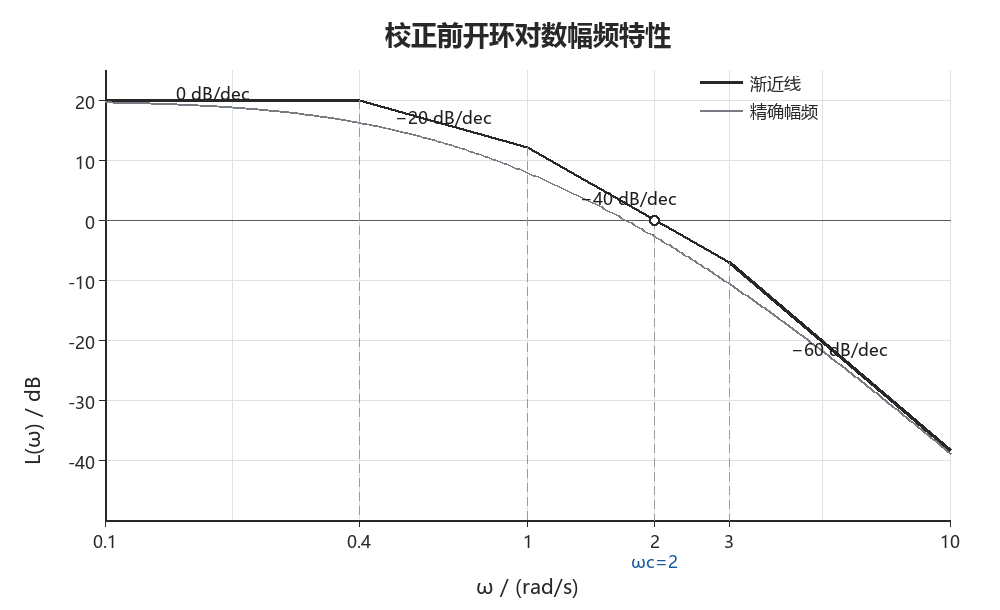
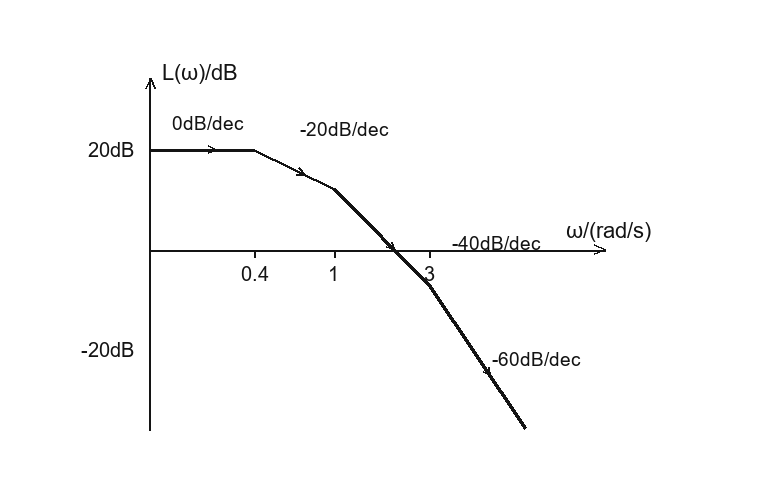
fix(2024-05): 校正前幅频图改为手绘风格并去掉竖向虚线

diff --git a/tools/plot_q202405.py b/tools/plot_q202405.py
@@ -1,5 +1,5 @@
 # -*- coding: utf-8 -*-
-"""Draw the pre-correction open-loop Bode magnitude of 2024 Q5 (G(s)=12/[(s+1)(s+3)(s+0.4)])."""
+"""Exam-style (hand-drawn look, no vertical guide lines) pre-correction Bode magnitude for 2024 Q5."""
 import math
 from pathlib import Path
 from PIL import Image, ImageDraw, ImageFont
@@ -7,13 +7,13 @@ from PIL import Image, ImageDraw, ImageFont
 ROOT = Path(__file__).resolve().parents[1]
 OUT = ROOT / "data-src/2024/img/solution-202405-bode-before.png"
 
-W, H = 1000, 610
-left, right, top, bottom = 105, 950, 70, 520
-logmin, logmax = -1.0, 1.0          # 0.1 .. 10 rad/s
-ymax, ymin = 25.0, -50.0            # dB
+W, H = 760, 480
+X0, Y0 = 150, 250
+SCALE, DEC, WMIN = 5.0, 200.0, 0.12
+F = "C:/Windows/Fonts/arial.ttf"
 
-def xmap(w): return left + (math.log10(w)-logmin)/(logmax-logmin)*(right-left)
-def ymap(db): return top + (ymax-db)/(ymax-ymin)*(bottom-top)
+def X(w):  return X0 + (math.log10(w)-math.log10(WMIN))*DEC
+def Y(db): return Y0 - SCALE*db
 
 def L_asym(w):
     db = 20.0
@@ -22,90 +22,47 @@ def L_asym(w):
     if w > 3.0: db -= 20*math.log10(w/3.0)
     return db
 
-def mag_db(w):
-    return 20*math.log10(12.0/(math.hypot(w,1)*math.hypot(w,3)*math.hypot(w,0.4)))
-
 img = Image.new("RGB", (W, H), "white")
 d = ImageDraw.Draw(img)
-FNT = "C:/Windows/Fonts/msyh.ttc"
 def font(sz, bold=False):
-    return ImageFont.truetype("C:/Windows/Fonts/msyhbd.ttc" if bold else FNT, sz)
+    try: return ImageFont.truetype("C:/Windows/Fonts/arialbd.ttf" if bold else F, sz)
+    except Exception: return ImageFont.truetype(F, sz)
+f22 = font(22); f20 = font(20); f19 = font(19)
+BLACK=(20,20,20)
 
-title_f = font(26, True)
-lab_f = font(20)
-tick_f = font(17)
-small_f = font(17)
+def arrow(x1,y1,x2,y2,w=2,ah=11):
+    d.line([(x1,y1),(x2,y2)], fill=BLACK, width=int(round(w)))
+    ang=math.atan2(y2-y1,x2-x1)
+    for s in (+1,-1):
+        xx=x2-ah*math.cos(ang-s*0.42); yy=y2-ah*math.sin(ang-s*0.42)
+        d.line([(x2,y2),(xx,yy)], fill=BLACK, width=int(round(w)))
 
-GRID=(220,226,232); AX=(40,40,40); DOT=(120,125,132); DASH=(150,155,162)
+arrow(X0, 430, X0, 78, 2.4)
+arrow(X0, Y0, 605, Y0, 2.4)
 
-# grid
-for w in [0.1,0.2,0.4,1,2,3,5,10]:
-    x=xmap(w); d.line([(x,top),(x,bottom)], fill=GRID, width=1)
-for db in [20,10,0,-10,-20,-30,-40]:
-    y=ymap(db); d.line([(left,y),(right,y)], fill=GRID, width=1)
-# axes
-d.line([(left,top),(left,bottom)], fill=AX, width=2)
-d.line([(left,bottom),(right,bottom)], fill=AX, width=2)
-# 0 dB line
-y0=ymap(0); d.line([(left,y0),(right,y0)], fill=(90,90,90), width=1)
+wpts=[WMIN,0.4,1,3,9]
+pts=[(X(w),Y(L_asym(w))) for w in wpts]
+for i in range(len(pts)-1):
+    d.line([pts[i],pts[i+1]], fill=BLACK, width=3)
 
-# ticks
-for w,lab in [(0.1,"0.1"),(0.4,"0.4"),(1,"1"),(2,"2"),(3,"3"),(10,"10")]:
-    x=xmap(w); d.line([(x,bottom),(x,bottom+6)], fill=AX, width=1)
-    tw=d.textlength(lab,font=tick_f); d.text((x-tw/2,bottom+10), lab, font=tick_f, fill=AX)
-for db in [20,10,0,-10,-20,-30,-40]:
-    y=ymap(db); d.line([(left-6,y),(left,y)], fill=AX, width=1)
-    lab=str(db); tw=d.textlength(lab,font=tick_f); d.text((left-10-tw,y-9), lab, font=tick_f, fill=AX)
+d.text((X0+12, 60), "L(ω)/dB", font=f22, fill=BLACK)
+d.text((566, Y0-32), "ω/(rad/s)", font=f22, fill=BLACK)
+d.text((X0-16, Y(20)-12), "20dB", font=f20, fill=BLACK, anchor="ra")
+d.text((X0-16, Y(-20)-12), "-20dB", font=f20, fill=BLACK, anchor="ra")
 
-# asymptote (piecewise linear in log w)
-pts=[(xmap(w),ymap(L_asym(w))) for w in [0.1,0.4,1,3,10]]
-d.line(pts, fill=AX, width=3)
-# exact curve dotted
-n=400; prev=None
-for i in range(n+1):
-    w=10**(logmin+(logmax-logmin)*i/n); p=(xmap(w),ymap(mag_db(w)))
-    if prev: d.line([prev,p], fill=DOT, width=2)
-    prev=p
+for w,lab in [(0.4,"0.4"),(1,"1"),(3,"3")]:
+    x=X(w); d.line([(x,Y0),(x,Y0+7)], fill=BLACK, width=2)
+    d.text((x, Y0+12), lab, font=f20, fill=BLACK, anchor="ma")
 
-# vertical dashed construction lines at corners and wc=2
-def vdash(w, ytop=None, ybot=None):
-    x=xmap(w); yt=ytop if ytop is not None else top; yb=ybot if ybot is not None else bottom
-    yy=yt
-    while yy<yb:
-        d.line([(x,yy),(x,min(yy+8,yb))], fill=DASH, width=1); yy+=14
-for w in [0.4,1,3]:
-    vdash(w, ymap(L_asym(w)), bottom)
-vdash(2, ymap(0), bottom)
-# mark wc=2 point
-xc=xmap(2); yc=ymap(0); r=5
-d.ellipse([xc-r,yc-r,xc+r,yc+r], fill="white", outline=AX, width=2)
-tw=d.textlength("ωc=2",font=tick_f); d.text((xc-tw/2,bottom+30), "ωc=2", font=tick_f, fill=(20,90,160))
+def slope_arrow(w1, w2, frac=0.5):
+    wa = w1*(w2/w1)**(frac-0.14); wb = w1*(w2/w1)**(frac+0.14)
+    arrow(X(wa), Y(L_asym(wa)), X(wb), Y(L_asym(wb)), 1.8, 9)
+slope_arrow(WMIN, 0.4); slope_arrow(0.4, 1); slope_arrow(1, 3); slope_arrow(3, 9)
 
-
-# slope labels
-def slopetext(w, db, text, dy=-18):
-    x=xmap(w); y=ymap(db)+dy; tw=d.textlength(text,font=small_f)
-    d.text((x-tw/2,y), text, font=small_f, fill=(30,30,30))
-slopetext(0.18, L_asym(0.18), "0 dB/dec")
-slopetext(math.sqrt(0.4*1), (L_asym(0.4)+L_asym(1))/2, "−20 dB/dec")
-slopetext(math.sqrt(1*3), (L_asym(1)+L_asym(3))/2, "−40 dB/dec")
-slopetext(math.sqrt(3*10), (L_asym(3)+L_asym(10))/2, "−60 dB/dec")
-
-# axis labels + title
-def centered(text, y, fnt, fill=AX):
-    tw=d.textlength(text,font=fnt); d.text(((left+right)/2-tw/2, y), text, font=fnt, fill=fill)
-centered("ω / (rad/s)", bottom+52, lab_f)
-tw=d.textlength("校正前开环对数幅频特性",font=title_f); d.text(((left+right)/2-tw/2, 16), "校正前开环对数幅频特性", font=title_f, fill=AX)
-# rotated ylabel
-yl=Image.new("RGBA",(340,34),(255,255,255,0)); yd=ImageDraw.Draw(yl)
-yd.text((0,0),"L(ω) / dB",font=lab_f,fill=AX)
-yl=yl.rotate(90,expand=True)
-img.paste(yl,(18,int((top+bottom)/2-170)),yl)
-
-# legend (dashed construction note + line styles)
-lx, ly = right-250, top+6
-d.line([(lx,ly+6),(lx+42,ly+6)], fill=AX, width=3); d.text((lx+50,ly-4),"渐近线",font=small_f,fill=AX)
-d.line([(lx,ly+34),(lx+42,ly+34)], fill=DOT, width=2); d.text((lx+50,ly+24),"精确幅频",font=small_f,fill=AX)
+d.text((172, 112), "0dB/dec", font=f19, fill=BLACK)
+d.text((300, 118), "-20dB/dec", font=f19, fill=BLACK)
+d.text((452, 232), "-40dB/dec", font=f19, fill=BLACK)
+d.text((492, 348), "-60dB/dec", font=f19, fill=BLACK)
 
 img.save(OUT)
 print("saved", OUT, img.size)
